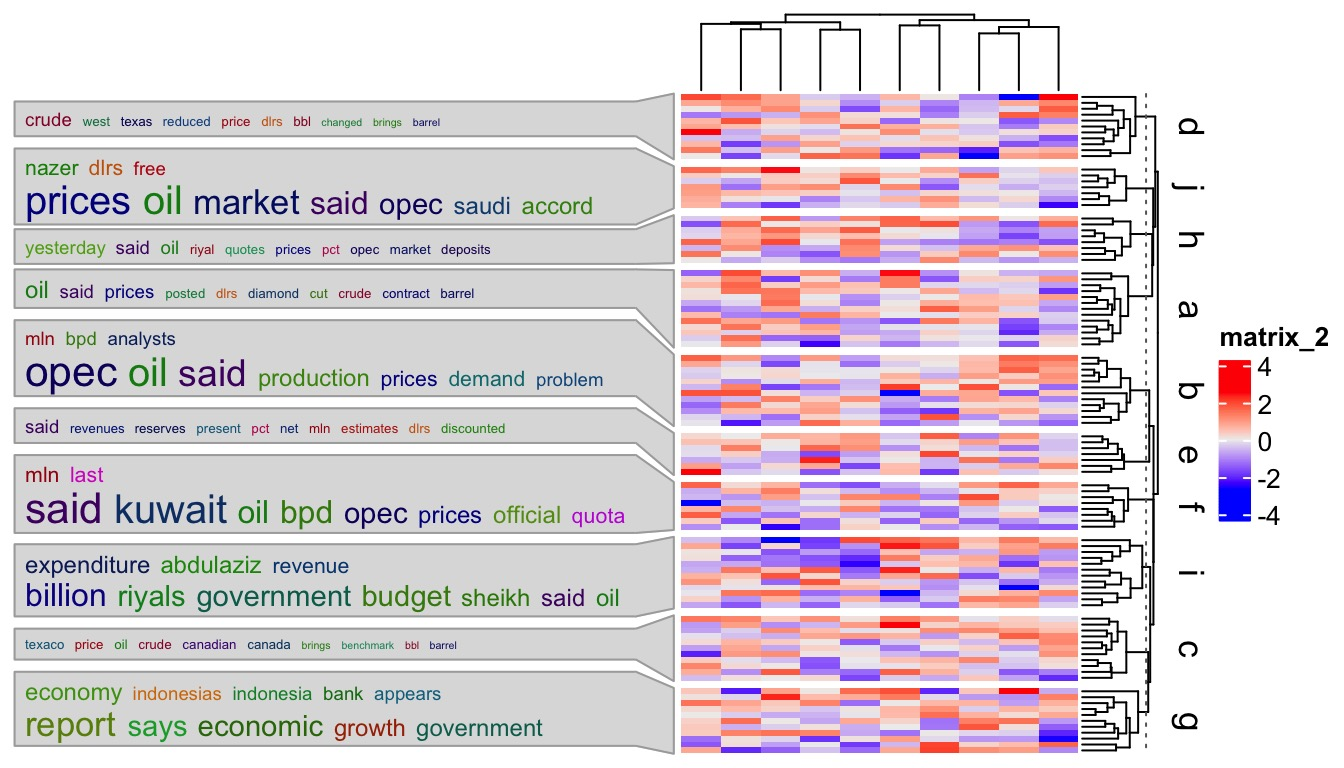
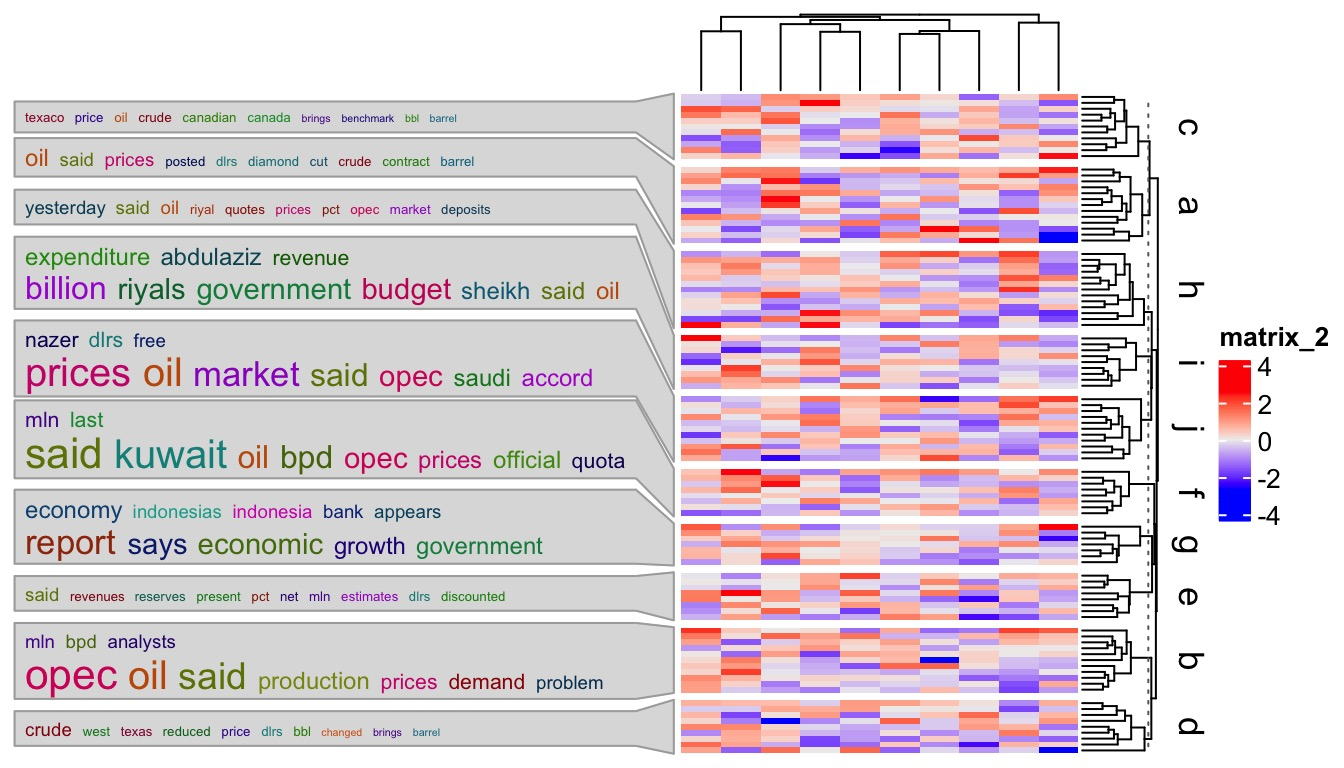
improve anno_word_cloud()

diff --git a/docs/articles/word_cloud_anno.html b/docs/articles/word_cloud_anno.html
@@ -88,7 +88,7 @@
       <h1 data-toc-skip>Word Cloud Annotation</h1>
                         <h4 class="author">Zuguang Gu (<a href="mailto:z.gu@dkfz.de" class="email">z.gu@dkfz.de</a>)</h4>
             
-            <h4 class="date">2021-11-22</h4>
+            <h4 class="date">2021-11-26</h4>
       
       <small class="dont-index">Source: <a href="https://github.com/jokergoo/simplifyEnrichment/blob/master/vignettes/word_cloud_anno.Rmd"><code>vignettes/word_cloud_anno.Rmd</code></a></small>
       <div class="hidden name"><code>word_cloud_anno.Rmd</code></div>
@@ -203,6 +203,30 @@
     row_split <span class="op">=</span> <span class="va">km</span><span class="op">)</span> <span class="op">+</span>
 <span class="fu"><a href="https://rdrr.io/pkg/ComplexHeatmap/man/rowAnnotation.html">rowAnnotation</a></span><span class="op">(</span>go <span class="op">=</span> <span class="fu"><a href="../reference/anno_word_cloud_from_GO.html">anno_word_cloud_from_GO</a></span><span class="op">(</span><span class="va">km</span>, <span class="va">go_list</span>, max_words <span class="op">=</span> <span class="fl">30</span>, stat <span class="op">=</span> <span class="st">"count"</span><span class="op">)</span><span class="op">)</span></code></pre></div>
 <p><img src="word_cloud_anno_files/figure-html/unnamed-chunk-9-1.png" width="672" style="display: block; margin: auto;"></p>
+<p>Now there might be users who want to say: I don’t actually need the word clouds, while I simply want to list key pathways in each cluster. This can be treated as a special case of word cloud where each word (or in general “a phrase as a word”) has value of 1 associated. Users need to specify several more arguments in <code><a href="../reference/anno_word_cloud.html">anno_word_cloud()</a></code>, as shown in the following example. Here <code>add_new_line</code> controls whether to list each sentence in separated lines. <code>value_range</code> and <code>fontsize_range</code> controls the size of the text. Note the defaults of these two arguments work well when font sizes are mapped to word frequencies or significance from keywords enrichment, but if the values are of other types, you might need to manually reset them.</p>
+<div class="sourceCode" id="cb14"><pre class="downlit sourceCode r">
+<code class="sourceCode R"><span class="va">mat</span> <span class="op">=</span> <span class="fu"><a href="https://rdrr.io/r/base/matrix.html">matrix</a></span><span class="op">(</span><span class="fu"><a href="https://rdrr.io/r/stats/Normal.html">rnorm</a></span><span class="op">(</span><span class="fl">100</span><span class="op">*</span><span class="fl">10</span><span class="op">)</span>, nrow <span class="op">=</span> <span class="fl">100</span><span class="op">)</span>
+<span class="va">split</span> <span class="op">=</span> <span class="fu"><a href="https://rdrr.io/r/base/sample.html">sample</a></span><span class="op">(</span><span class="va">letters</span><span class="op">[</span><span class="fl">1</span><span class="op">:</span><span class="fl">5</span><span class="op">]</span>, <span class="fl">100</span>, replace <span class="op">=</span> <span class="cn">TRUE</span><span class="op">)</span>
+<span class="va">term</span> <span class="op">=</span> <span class="fu"><a href="https://rdrr.io/r/base/lapply.html">lapply</a></span><span class="op">(</span><span class="va">letters</span><span class="op">[</span><span class="fl">1</span><span class="op">:</span><span class="fl">5</span><span class="op">]</span>, <span class="kw">function</span><span class="op">(</span><span class="va">x</span><span class="op">)</span> <span class="op">{</span>
+    <span class="fu"><a href="https://rdrr.io/r/base/data.frame.html">data.frame</a></span><span class="op">(</span><span class="fu"><a href="https://rdrr.io/r/base/c.html">c</a></span><span class="op">(</span><span class="st">"This is the first sentence."</span>, <span class="st">"This is the second sentence."</span><span class="op">)</span>, <span class="fu"><a href="https://rdrr.io/r/base/c.html">c</a></span><span class="op">(</span><span class="fl">1</span>, <span class="fl">1</span><span class="op">)</span><span class="op">)</span>
+<span class="op">}</span><span class="op">)</span>
+<span class="fu"><a href="https://rdrr.io/r/base/names.html">names</a></span><span class="op">(</span><span class="va">term</span><span class="op">)</span> <span class="op">=</span> <span class="va">letters</span><span class="op">[</span><span class="fl">1</span><span class="op">:</span><span class="fl">5</span><span class="op">]</span>
+<span class="fu"><a href="https://rdrr.io/pkg/ComplexHeatmap/man/Heatmap.html">Heatmap</a></span><span class="op">(</span><span class="va">mat</span>, row_split <span class="op">=</span> <span class="va">split</span>, 
+    right_annotation <span class="op">=</span> <span class="fu"><a href="https://rdrr.io/pkg/ComplexHeatmap/man/rowAnnotation.html">rowAnnotation</a></span><span class="op">(</span>wc <span class="op">=</span> <span class="fu"><a href="../reference/anno_word_cloud.html">anno_word_cloud</a></span><span class="op">(</span><span class="va">split</span>, <span class="va">term</span>,
+        add_new_line <span class="op">=</span> <span class="cn">TRUE</span>, value_range <span class="op">=</span> <span class="fu"><a href="https://rdrr.io/r/base/c.html">c</a></span><span class="op">(</span><span class="fl">1</span>, <span class="fl">1</span><span class="op">)</span>, fontsize_range <span class="op">=</span> <span class="fu"><a href="https://rdrr.io/r/base/c.html">c</a></span><span class="op">(</span><span class="fl">10</span>, <span class="fl">10</span><span class="op">)</span><span class="op">)</span><span class="op">)</span>
+<span class="op">)</span></code></pre></div>
+<p><img src="word_cloud_anno_files/figure-html/unnamed-chunk-10-1.png" width="672" style="display: block; margin: auto;"></p>
+<p>The sentences can also have different font size, just set values in the second column of the data frames in <code>term</code>:</p>
+<div class="sourceCode" id="cb15"><pre class="downlit sourceCode r">
+<code class="sourceCode R"><span class="va">term</span> <span class="op">=</span> <span class="fu"><a href="https://rdrr.io/r/base/lapply.html">lapply</a></span><span class="op">(</span><span class="va">letters</span><span class="op">[</span><span class="fl">1</span><span class="op">:</span><span class="fl">5</span><span class="op">]</span>, <span class="kw">function</span><span class="op">(</span><span class="va">x</span><span class="op">)</span> <span class="op">{</span>
+    <span class="fu"><a href="https://rdrr.io/r/base/data.frame.html">data.frame</a></span><span class="op">(</span><span class="fu"><a href="https://rdrr.io/r/base/c.html">c</a></span><span class="op">(</span><span class="st">"This is the first sentence."</span>, <span class="st">"This is the second sentence."</span><span class="op">)</span>, <span class="fu"><a href="https://rdrr.io/r/base/c.html">c</a></span><span class="op">(</span><span class="fl">1</span>, <span class="fl">2</span><span class="op">)</span><span class="op">)</span>
+<span class="op">}</span><span class="op">)</span>
+<span class="fu"><a href="https://rdrr.io/r/base/names.html">names</a></span><span class="op">(</span><span class="va">term</span><span class="op">)</span> <span class="op">=</span> <span class="va">letters</span><span class="op">[</span><span class="fl">1</span><span class="op">:</span><span class="fl">5</span><span class="op">]</span>
+<span class="fu"><a href="https://rdrr.io/pkg/ComplexHeatmap/man/Heatmap.html">Heatmap</a></span><span class="op">(</span><span class="va">mat</span>, row_split <span class="op">=</span> <span class="va">split</span>, 
+    right_annotation <span class="op">=</span> <span class="fu"><a href="https://rdrr.io/pkg/ComplexHeatmap/man/rowAnnotation.html">rowAnnotation</a></span><span class="op">(</span>wc <span class="op">=</span> <span class="fu"><a href="../reference/anno_word_cloud.html">anno_word_cloud</a></span><span class="op">(</span><span class="va">split</span>, <span class="va">term</span>,
+        add_new_line <span class="op">=</span> <span class="cn">TRUE</span>, value_range <span class="op">=</span> <span class="fu"><a href="https://rdrr.io/r/base/c.html">c</a></span><span class="op">(</span><span class="fl">1</span>, <span class="fl">2</span><span class="op">)</span>, fontsize_range <span class="op">=</span> <span class="fu"><a href="https://rdrr.io/r/base/c.html">c</a></span><span class="op">(</span><span class="fl">8</span>, <span class="fl">12</span><span class="op">)</span><span class="op">)</span><span class="op">)</span>
+<span class="op">)</span></code></pre></div>
+<p><img src="word_cloud_anno_files/figure-html/unnamed-chunk-11-1.png" width="672" style="display: block; margin: auto;"></p>
   </div>
 
   <div class="col-md-3 hidden-xs hidden-sm" id="pkgdown-sidebar">

diff --git a/docs/articles/simplifyEnrichment.html b/docs/articles/simplifyEnrichment.html
@@ -88,7 +88,7 @@
       <h1 data-toc-skip>Simplify Functional Enrichment Results</h1>
                         <h4 class="author">Zuguang Gu (<a href="mailto:z.gu@dkfz.de" class="email">z.gu@dkfz.de</a>)</h4>
             
-            <h4 class="date">2021-11-22</h4>
+            <h4 class="date">2021-11-26</h4>
       
       <small class="dont-index">Source: <a href="https://github.com/jokergoo/simplifyEnrichment/blob/master/vignettes/simplifyEnrichment.Rmd"><code>vignettes/simplifyEnrichment.Rmd</code></a></small>
       <div class="hidden name"><code>simplifyEnrichment.Rmd</code></div>
@@ -115,7 +115,7 @@
 <p>With the similarity matrix <code>mat</code>, users can directly apply <code><a href="../reference/simplifyGO.html">simplifyGO()</a></code> function to perform the clustering as well as visualizing the results.</p>
 <div class="sourceCode" id="cb4"><pre class="downlit sourceCode r">
 <code class="sourceCode R"><span class="va">df</span> <span class="op">=</span> <span class="fu"><a href="../reference/simplifyGO.html">simplifyGO</a></span><span class="op">(</span><span class="va">mat</span><span class="op">)</span></code></pre></div>
-<pre><code>## Cluster 500 terms by 'binary_cut'... 19 clusters, used 1.395753 secs.
+<pre><code>## Cluster 500 terms by 'binary_cut'... 19 clusters, used 1.366146 secs.
 ## Perform keywords enrichment for 11 GO lists...</code></pre>
 <p><img src="simplifyEnrichment_files/figure-html/unnamed-chunk-6-1.png" width="806.4" style="display: block; margin: auto;"></p>
 <p>On the right side of the heatmap there are the word cloud annotations which summarize the functions with keywords in every GO cluster. Additionally, enrichment is done on keywords compared to GO background vocabulary and the significance corresponds to the font size of the keywords.</p>
@@ -201,30 +201,30 @@
 </ol>
 <div class="sourceCode" id="cb14"><pre class="downlit sourceCode r">
 <code class="sourceCode R"><span class="fu"><a href="../reference/compare_clustering_methods.html">compare_clustering_methods</a></span><span class="op">(</span><span class="va">mat</span><span class="op">)</span></code></pre></div>
-<pre><code>## Cluster 500 terms by 'binary_cut'... 19 clusters, used 1.135666 secs.
-## Cluster 500 terms by 'kmeans'... 19 clusters, used 3.667366 secs.
-## Cluster 500 terms by 'pam'... 5 clusters, used 22.60092 secs.
-## Cluster 500 terms by 'dynamicTreeCut'... 60 clusters, used 0.1633129 secs.
-## Cluster 500 terms by 'apcluster'... 41 clusters, used 1.21889 secs.
-## Cluster 500 terms by 'hdbscan'... 14 clusters, used 0.200191 secs.
-## Cluster 500 terms by 'fast_greedy'... 6 clusters, used 0.1410952 secs.
-## Cluster 500 terms by 'louvain'... 6 clusters, used 0.08234787 secs.
-## Cluster 500 terms by 'walktrap'... 6 clusters, used 0.3581161 secs.
-## Cluster 500 terms by 'MCL'... 6 clusters, used 2.438552 secs.</code></pre>
+<pre><code>## Cluster 500 terms by 'binary_cut'... 19 clusters, used 1.00777 secs.
+## Cluster 500 terms by 'kmeans'... 15 clusters, used 3.533886 secs.
+## Cluster 500 terms by 'pam'... 5 clusters, used 22.21925 secs.
+## Cluster 500 terms by 'dynamicTreeCut'... 60 clusters, used 0.158437 secs.
+## Cluster 500 terms by 'apcluster'... 41 clusters, used 1.123825 secs.
+## Cluster 500 terms by 'hdbscan'... 14 clusters, used 0.1832268 secs.
+## Cluster 500 terms by 'fast_greedy'... 6 clusters, used 0.1389499 secs.
+## Cluster 500 terms by 'louvain'... 6 clusters, used 0.08425498 secs.
+## Cluster 500 terms by 'walktrap'... 6 clusters, used 0.2730038 secs.
+## Cluster 500 terms by 'MCL'... 6 clusters, used 1.850191 secs.</code></pre>
 <p><img src="simplifyEnrichment_files/figure-html/unnamed-chunk-12-1.png" width="960" style="display: block; margin: auto;"></p>
 <p>If <code>plot_type</code> argument is set to <code>heatmap</code>. There are heatmaps for the similarity matrix under different clusterings methods. The last panel is a table with the number of clusters.</p>
 <div class="sourceCode" id="cb16"><pre class="downlit sourceCode r">
 <code class="sourceCode R"><span class="fu"><a href="../reference/compare_clustering_methods.html">compare_clustering_methods</a></span><span class="op">(</span><span class="va">mat</span>, plot_type <span class="op">=</span> <span class="st">"heatmap"</span><span class="op">)</span></code></pre></div>
-<pre><code>## Cluster 500 terms by 'binary_cut'... 19 clusters, used 1.109561 secs.
-## Cluster 500 terms by 'kmeans'... 20 clusters, used 3.620433 secs.
-## Cluster 500 terms by 'pam'... 5 clusters, used 21.74007 secs.
-## Cluster 500 terms by 'dynamicTreeCut'... 60 clusters, used 0.1487749 secs.
-## Cluster 500 terms by 'apcluster'... 41 clusters, used 1.164628 secs.
-## Cluster 500 terms by 'hdbscan'... 14 clusters, used 0.170625 secs.
-## Cluster 500 terms by 'fast_greedy'... 6 clusters, used 0.07764316 secs.
-## Cluster 500 terms by 'louvain'... 6 clusters, used 0.08236694 secs.
-## Cluster 500 terms by 'walktrap'... 6 clusters, used 0.2756431 secs.
-## Cluster 500 terms by 'MCL'... 6 clusters, used 1.967357 secs.</code></pre>
+<pre><code>## Cluster 500 terms by 'binary_cut'... 19 clusters, used 1.164889 secs.
+## Cluster 500 terms by 'kmeans'... 17 clusters, used 3.565179 secs.
+## Cluster 500 terms by 'pam'... 5 clusters, used 21.71243 secs.
+## Cluster 500 terms by 'dynamicTreeCut'... 60 clusters, used 0.144032 secs.
+## Cluster 500 terms by 'apcluster'... 41 clusters, used 0.8258629 secs.
+## Cluster 500 terms by 'hdbscan'... 14 clusters, used 0.180125 secs.
+## Cluster 500 terms by 'fast_greedy'... 6 clusters, used 0.07359314 secs.
+## Cluster 500 terms by 'louvain'... 6 clusters, used 0.101949 secs.
+## Cluster 500 terms by 'walktrap'... 6 clusters, used 0.369005 secs.
+## Cluster 500 terms by 'MCL'... 6 clusters, used 2.051593 secs.</code></pre>
 <p><img src="simplifyEnrichment_files/figure-html/unnamed-chunk-13-1.png" width="1728" style="display: block; margin: auto;"></p>
 <p>Please note, the clustering methods might have randomness, which means, different runs of <code><a href="../reference/compare_clustering_methods.html">compare_clustering_methods()</a></code> may generate different clusterings (slightly different). Thus, if users want to compare the plots between <code><a href="../reference/compare_clustering_methods.html">compare_clustering_methods(mat)</a></code> and <code><a href="../reference/compare_clustering_methods.html">compare_clustering_methods(mat, plot_type = "heatmap")</a></code>, they should set the same random seed before executing the function.</p>
 <div class="sourceCode" id="cb18"><pre class="downlit sourceCode r">
@@ -324,7 +324,7 @@
 <pre><code>## Use column 'ID' as `go_id_column`.
 ## Use column 'p.adjust' as `padj_column`.
 ## 927/6316 GO IDs left for clustering.
-## Cluster 927 terms by 'binary_cut'... 29 clusters, used 2.174088 secs.
+## Cluster 927 terms by 'binary_cut'... 29 clusters, used 1.811993 secs.
 ## Perform keywords enrichment for 8 GO lists...</code></pre>
 <p><img src="simplifyEnrichment_files/figure-html/unnamed-chunk-18-1.png" width="100%" style="display: block; margin: auto;"></p>
 <p>Next we demonstrate two other data types for <code><a href="../reference/simplifyGOFromMultipleLists.html">simplifyGOFromMultipleLists()</a></code>. Both usages are straightforward. The first is a list of numeric vectors:</p>

diff --git a/docs/reference/compare_clustering_methods.html b/docs/reference/compare_clustering_methods.html
@@ -196,26 +196,26 @@
 <span class='va'>mat</span> <span class='op'>=</span> <span class='fu'><a href='https://rdrr.io/r/base/readRDS.html'>readRDS</a></span><span class='op'>(</span><span class='fu'><a href='https://rdrr.io/r/base/system.file.html'>system.file</a></span><span class='op'>(</span><span class='st'>"extdata"</span>, <span class='st'>"random_GO_BP_sim_mat.rds"</span>,
     package <span class='op'>=</span> <span class='st'>"simplifyEnrichment"</span><span class='op'>)</span><span class='op'>)</span>
 <span class='fu'>compare_clustering_methods</span><span class='op'>(</span><span class='va'>mat</span><span class='op'>)</span>
-</div><div class='output co'>#&gt; Cluster 500 terms by 'binary_cut'... 19 clusters, used 1.16726 secs.
-#&gt; Cluster 500 terms by 'kmeans'... 16 clusters, used 3.235914 secs.
-#&gt; Cluster 500 terms by 'pam'... 5 clusters, used 20.71368 secs.
-#&gt; Cluster 500 terms by 'dynamicTreeCut'... 60 clusters, used 0.1596529 secs.
-#&gt; Cluster 500 terms by 'apcluster'... 41 clusters, used 0.8454869 secs.
-#&gt; Cluster 500 terms by 'hdbscan'... 14 clusters, used 0.179153 secs.
-#&gt; Cluster 500 terms by 'fast_greedy'... 6 clusters, used 0.07034421 secs.
-#&gt; Cluster 500 terms by 'louvain'... 6 clusters, used 0.07762599 secs.
-#&gt; Cluster 500 terms by 'walktrap'... 6 clusters, used 0.327028 secs.
-#&gt; Cluster 500 terms by 'MCL'... 6 clusters, used 2.165635 secs.</div><div class='img'><img src='compare_clustering_methods-1.png' alt='' width='700' height='433' /></div><div class='input'><span class='fu'>compare_clustering_methods</span><span class='op'>(</span><span class='va'>mat</span>, plot_type <span class='op'>=</span> <span class='st'>"heatmap"</span><span class='op'>)</span>
-</div><div class='output co'>#&gt; Cluster 500 terms by 'binary_cut'... 19 clusters, used 1.107425 secs.
-#&gt; Cluster 500 terms by 'kmeans'... 18 clusters, used 3.955954 secs.
-#&gt; Cluster 500 terms by 'pam'... 5 clusters, used 21.46512 secs.
-#&gt; Cluster 500 terms by 'dynamicTreeCut'... 60 clusters, used 0.1406281 secs.
-#&gt; Cluster 500 terms by 'apcluster'... 41 clusters, used 0.7406361 secs.
-#&gt; Cluster 500 terms by 'hdbscan'... 14 clusters, used 0.1734121 secs.
-#&gt; Cluster 500 terms by 'fast_greedy'... 6 clusters, used 0.06746602 secs.
-#&gt; Cluster 500 terms by 'louvain'... 6 clusters, used 0.096174 secs.
-#&gt; Cluster 500 terms by 'walktrap'... 6 clusters, used 0.25526 secs.
-#&gt; Cluster 500 terms by 'MCL'... 6 clusters, used 1.787468 secs.</div><div class='img'><img src='compare_clustering_methods-2.png' alt='' width='700' height='433' /></div><div class='input'><span class='co'># }</span>
+</div><div class='output co'>#&gt; Cluster 500 terms by 'binary_cut'... 19 clusters, used 1.247852 secs.
+#&gt; Cluster 500 terms by 'kmeans'... 16 clusters, used 3.522572 secs.
+#&gt; Cluster 500 terms by 'pam'... 5 clusters, used 21.67631 secs.
+#&gt; Cluster 500 terms by 'dynamicTreeCut'... 60 clusters, used 0.143013 secs.
+#&gt; Cluster 500 terms by 'apcluster'... 41 clusters, used 0.8885372 secs.
+#&gt; Cluster 500 terms by 'hdbscan'... 14 clusters, used 0.178124 secs.
+#&gt; Cluster 500 terms by 'fast_greedy'... 6 clusters, used 0.07704997 secs.
+#&gt; Cluster 500 terms by 'louvain'... 6 clusters, used 0.07361603 secs.
+#&gt; Cluster 500 terms by 'walktrap'... 6 clusters, used 0.318918 secs.
+#&gt; Cluster 500 terms by 'MCL'... 6 clusters, used 1.897341 secs.</div><div class='img'><img src='compare_clustering_methods-1.png' alt='' width='700' height='433' /></div><div class='input'><span class='fu'>compare_clustering_methods</span><span class='op'>(</span><span class='va'>mat</span>, plot_type <span class='op'>=</span> <span class='st'>"heatmap"</span><span class='op'>)</span>
+</div><div class='output co'>#&gt; Cluster 500 terms by 'binary_cut'... 19 clusters, used 1.129466 secs.
+#&gt; Cluster 500 terms by 'kmeans'... 18 clusters, used 3.394043 secs.
+#&gt; Cluster 500 terms by 'pam'... 5 clusters, used 21.14449 secs.
+#&gt; Cluster 500 terms by 'dynamicTreeCut'... 60 clusters, used 0.1492419 secs.
+#&gt; Cluster 500 terms by 'apcluster'... 41 clusters, used 0.7488801 secs.
+#&gt; Cluster 500 terms by 'hdbscan'... 14 clusters, used 0.1780221 secs.
+#&gt; Cluster 500 terms by 'fast_greedy'... 6 clusters, used 0.07098293 secs.
+#&gt; Cluster 500 terms by 'louvain'... 6 clusters, used 0.0672152 secs.
+#&gt; Cluster 500 terms by 'walktrap'... 6 clusters, used 0.2688231 secs.
+#&gt; Cluster 500 terms by 'MCL'... 6 clusters, used 1.82666 secs.</div><div class='img'><img src='compare_clustering_methods-2.png' alt='' width='700' height='433' /></div><div class='input'><span class='co'># }</span>
 </div></pre>
   </div>
   <div class="col-md-3 hidden-xs hidden-sm" id="pkgdown-sidebar">

diff --git a/docs/reference/simplifyGOFromMultipleLists.html b/docs/reference/simplifyGOFromMultipleLists.html
@@ -278,17 +278,17 @@ the group-specific (or list-specific) patterns can be easily observed and to cor
 <span class='co'># a list of data frames</span>
 <span class='fu'>simplifyGOFromMultipleLists</span><span class='op'>(</span><span class='va'>lt</span>, padj_cutoff <span class='op'>=</span> <span class='fl'>0.001</span><span class='op'>)</span>
 </div><div class='output co'>#&gt; Use column 'ID' as `go_id_column`.
-#&gt; Use column 'p.adjust' as `padj_column`.</div><div class='output co'>#&gt; <span class='message'>Loading required namespace: gridtext</span></div><div class='output co'>#&gt; 927/6316 GO IDs left for clustering.</div><div class='output co'>#&gt; <span class='message'>You haven't provided value for `ont`, guess it as `BP`.</span></div><div class='output co'>#&gt; Cluster 927 terms by 'binary_cut'... 29 clusters, used 1.871094 secs.
+#&gt; Use column 'p.adjust' as `padj_column`.</div><div class='output co'>#&gt; <span class='message'>Loading required namespace: gridtext</span></div><div class='output co'>#&gt; 927/6316 GO IDs left for clustering.</div><div class='output co'>#&gt; <span class='message'>You haven't provided value for `ont`, guess it as `BP`.</span></div><div class='output co'>#&gt; Cluster 927 terms by 'binary_cut'... 29 clusters, used 1.87384 secs.
 #&gt; Perform keywords enrichment for 8 GO lists...</div><div class='img'><img src='simplifyGOFromMultipleLists-1.png' alt='' width='700' height='433' /></div><div class='input'>
 <span class='co'># a list of numeric values</span>
 <span class='va'>lt2</span> <span class='op'>=</span> <span class='fu'><a href='https://rdrr.io/r/base/lapply.html'>lapply</a></span><span class='op'>(</span><span class='va'>lt</span>, <span class='kw'>function</span><span class='op'>(</span><span class='va'>x</span><span class='op'>)</span> <span class='fu'><a href='https://rdrr.io/r/base/structure.html'>structure</a></span><span class='op'>(</span><span class='va'>x</span><span class='op'>$</span><span class='va'>p.adjust</span>, names <span class='op'>=</span> <span class='va'>x</span><span class='op'>$</span><span class='va'>ID</span><span class='op'>)</span><span class='op'>)</span>
 <span class='fu'>simplifyGOFromMultipleLists</span><span class='op'>(</span><span class='va'>lt2</span>, padj_cutoff <span class='op'>=</span> <span class='fl'>0.001</span><span class='op'>)</span>
-</div><div class='output co'>#&gt; 927/6316 GO IDs left for clustering.</div><div class='output co'>#&gt; <span class='message'>You haven't provided value for `ont`, guess it as `BP`.</span></div><div class='output co'>#&gt; Cluster 927 terms by 'binary_cut'... 29 clusters, used 2.616816 secs.
+</div><div class='output co'>#&gt; 927/6316 GO IDs left for clustering.</div><div class='output co'>#&gt; <span class='message'>You haven't provided value for `ont`, guess it as `BP`.</span></div><div class='output co'>#&gt; Cluster 927 terms by 'binary_cut'... 29 clusters, used 1.882167 secs.
 #&gt; Perform keywords enrichment for 8 GO lists...</div><div class='img'><img src='simplifyGOFromMultipleLists-2.png' alt='' width='700' height='433' /></div><div class='input'>
 <span class='co'># a list of GO IDS</span>
 <span class='va'>lt3</span> <span class='op'>=</span> <span class='fu'><a href='https://rdrr.io/r/base/lapply.html'>lapply</a></span><span class='op'>(</span><span class='va'>lt</span>, <span class='kw'>function</span><span class='op'>(</span><span class='va'>x</span><span class='op'>)</span> <span class='va'>x</span><span class='op'>$</span><span class='va'>ID</span><span class='op'>[</span><span class='va'>x</span><span class='op'>$</span><span class='va'>p.adjust</span> <span class='op'>&lt;</span> <span class='fl'>0.001</span><span class='op'>]</span><span class='op'>)</span>
 <span class='fu'>simplifyGOFromMultipleLists</span><span class='op'>(</span><span class='va'>lt3</span><span class='op'>)</span>
-</div><div class='output co'>#&gt; 927/927 GO IDs left for clustering.</div><div class='output co'>#&gt; <span class='message'>You haven't provided value for `ont`, guess it as `BP`.</span></div><div class='output co'>#&gt; Cluster 927 terms by 'binary_cut'... 29 clusters, used 1.87644 secs.
+</div><div class='output co'>#&gt; 927/927 GO IDs left for clustering.</div><div class='output co'>#&gt; <span class='message'>You haven't provided value for `ont`, guess it as `BP`.</span></div><div class='output co'>#&gt; Cluster 927 terms by 'binary_cut'... 29 clusters, used 1.730309 secs.
 #&gt; Perform keywords enrichment for 8 GO lists...</div><div class='img'><img src='simplifyGOFromMultipleLists-3.png' alt='' width='700' height='433' /></div><div class='input'><span class='co'># }</span>
 </div></pre>
   </div>

diff --git a/docs/reference/cmp_make_plot.html b/docs/reference/cmp_make_plot.html
@@ -179,16 +179,16 @@ clusterings.</p>
 <span class='va'>mat</span> <span class='op'>=</span> <span class='fu'><a href='https://rdrr.io/r/base/readRDS.html'>readRDS</a></span><span class='op'>(</span><span class='fu'><a href='https://rdrr.io/r/base/system.file.html'>system.file</a></span><span class='op'>(</span><span class='st'>"extdata"</span>, <span class='st'>"random_GO_BP_sim_mat.rds"</span>,
     package <span class='op'>=</span> <span class='st'>"simplifyEnrichment"</span><span class='op'>)</span><span class='op'>)</span>
 <span class='va'>clt</span> <span class='op'>=</span> <span class='fu'><a href='cmp_make_clusters.html'>cmp_make_clusters</a></span><span class='op'>(</span><span class='va'>mat</span><span class='op'>)</span>
-</div><div class='output co'>#&gt; Cluster 500 terms by 'binary_cut'... 19 clusters, used 1.082154 secs.
-#&gt; Cluster 500 terms by 'kmeans'... 21 clusters, used 3.9441 secs.
-#&gt; Cluster 500 terms by 'pam'... 5 clusters, used 23.38556 secs.
-#&gt; Cluster 500 terms by 'dynamicTreeCut'... 60 clusters, used 0.2007799 secs.
-#&gt; Cluster 500 terms by 'apcluster'... 41 clusters, used 1.306292 secs.
-#&gt; Cluster 500 terms by 'hdbscan'... 14 clusters, used 0.187027 secs.
-#&gt; Cluster 500 terms by 'fast_greedy'... 6 clusters, used 0.08143902 secs.
-#&gt; Cluster 500 terms by 'louvain'... 6 clusters, used 0.07868004 secs.
-#&gt; Cluster 500 terms by 'walktrap'... 6 clusters, used 0.6957641 secs.
-#&gt; Cluster 500 terms by 'MCL'... 6 clusters, used 1.802144 secs.</div><div class='input'><span class='fu'>cmp_make_plot</span><span class='op'>(</span><span class='va'>mat</span>, <span class='va'>clt</span><span class='op'>)</span>
+</div><div class='output co'>#&gt; Cluster 500 terms by 'binary_cut'... 19 clusters, used 1.49998 secs.
+#&gt; Cluster 500 terms by 'kmeans'... 21 clusters, used 3.501265 secs.
+#&gt; Cluster 500 terms by 'pam'... 5 clusters, used 21.51469 secs.
+#&gt; Cluster 500 terms by 'dynamicTreeCut'... 60 clusters, used 0.163491 secs.
+#&gt; Cluster 500 terms by 'apcluster'... 41 clusters, used 1.1725 secs.
+#&gt; Cluster 500 terms by 'hdbscan'... 14 clusters, used 0.1876349 secs.
+#&gt; Cluster 500 terms by 'fast_greedy'... 6 clusters, used 0.08288908 secs.
+#&gt; Cluster 500 terms by 'louvain'... 6 clusters, used 0.07305598 secs.
+#&gt; Cluster 500 terms by 'walktrap'... 6 clusters, used 0.678436 secs.
+#&gt; Cluster 500 terms by 'MCL'... 6 clusters, used 1.839584 secs.</div><div class='input'><span class='fu'>cmp_make_plot</span><span class='op'>(</span><span class='va'>mat</span>, <span class='va'>clt</span><span class='op'>)</span>
 </div><div class='img'><img src='cmp_make_plot-1.png' alt='' width='700' height='433' /></div><div class='input'><span class='fu'>cmp_make_plot</span><span class='op'>(</span><span class='va'>mat</span>, <span class='va'>clt</span>, plot_type <span class='op'>=</span> <span class='st'>"heatmap"</span><span class='op'>)</span>
 </div><div class='img'><img src='cmp_make_plot-2.png' alt='' width='700' height='433' /></div><div class='input'><span class='co'># }</span>
 </div></pre>

diff --git a/docs/reference/anno_word_cloud.html b/docs/reference/anno_word_cloud.html
@@ -136,9 +136,9 @@
     </div>
 
     <pre class="usage"><span class='fu'>anno_word_cloud</span><span class='op'>(</span><span class='va'>align_to</span>, <span class='va'>term</span>, exclude_words <span class='op'>=</span> <span class='cn'>NULL</span>, max_words <span class='op'>=</span> <span class='fl'>10</span>,
-    word_cloud_grob_param <span class='op'>=</span> <span class='fu'><a href='https://rdrr.io/r/base/list.html'>list</a></span><span class='op'>(</span><span class='op'>)</span>, fontsize_range <span class='op'>=</span> <span class='fu'><a href='https://rdrr.io/r/base/c.html'>c</a></span><span class='op'>(</span><span class='fl'>4</span>, <span class='fl'>16</span><span class='op'>)</span>,
+    word_cloud_grob_param <span class='op'>=</span> <span class='fu'><a href='https://rdrr.io/r/base/list.html'>list</a></span><span class='op'>(</span><span class='op'>)</span>, fontsize_range <span class='op'>=</span> <span class='fu'><a href='https://rdrr.io/r/base/c.html'>c</a></span><span class='op'>(</span><span class='fl'>4</span>, <span class='fl'>16</span><span class='op'>)</span>, value_range <span class='op'>=</span> <span class='cn'>NULL</span>,
     bg_gp <span class='op'>=</span> <span class='fu'>gpar</span><span class='op'>(</span>fill <span class='op'>=</span> <span class='st'>"#DDDDDD"</span>, col <span class='op'>=</span> <span class='st'>"#AAAAAA"</span><span class='op'>)</span>, side <span class='op'>=</span> <span class='fu'><a href='https://rdrr.io/r/base/c.html'>c</a></span><span class='op'>(</span><span class='st'>"right"</span>, <span class='st'>"left"</span><span class='op'>)</span>,
-    count_words_param <span class='op'>=</span> <span class='fu'><a href='https://rdrr.io/r/base/list.html'>list</a></span><span class='op'>(</span><span class='op'>)</span>, <span class='va'>...</span><span class='op'>)</span></pre>
+    add_new_line <span class='op'>=</span> <span class='cn'>FALSE</span>, count_words_param <span class='op'>=</span> <span class='fu'><a href='https://rdrr.io/r/base/list.html'>list</a></span><span class='op'>(</span><span class='op'>)</span>, <span class='va'>...</span><span class='op'>)</span></pre>
 
     <h2 class="hasAnchor" id="arguments"><a class="anchor" href="#arguments"></a>Arguments</h2>
     <table class="ref-arguments">
@@ -168,12 +168,20 @@
       <td><p>The range of the font size. The value should be a numeric vector with length two. The font size interpolation is linear.</p></td>
     </tr>
     <tr>
+      <th>value_range</th>
+      <td><p>The range of values to map to font sizes.</p></td>
+    </tr>
+    <tr>
       <th>bg_gp</th>
       <td><p>Graphics parameters for controlling the background.</p></td>
     </tr>
     <tr>
       <th>side</th>
       <td><p>Side of the annotation relative to the heatmap.</p></td>
+    </tr>
+    <tr>
+      <th>add_new_line</th>
+      <td><p>Whether to add new line after every word? If <code>TRUE</code>, each word will be in a separated line.</p></td>
     </tr>
     <tr>
       <th>count_words_param</th>

diff --git a/docs/reference/cmp_make_clusters.html b/docs/reference/cmp_make_clusters.html
@@ -183,16 +183,16 @@
 <span class='va'>mat</span> <span class='op'>=</span> <span class='fu'><a href='https://rdrr.io/r/base/readRDS.html'>readRDS</a></span><span class='op'>(</span><span class='fu'><a href='https://rdrr.io/r/base/system.file.html'>system.file</a></span><span class='op'>(</span><span class='st'>"extdata"</span>, <span class='st'>"random_GO_BP_sim_mat.rds"</span>,
     package <span class='op'>=</span> <span class='st'>"simplifyEnrichment"</span><span class='op'>)</span><span class='op'>)</span>
 <span class='va'>clt</span> <span class='op'>=</span> <span class='fu'>cmp_make_clusters</span><span class='op'>(</span><span class='va'>mat</span><span class='op'>)</span>
-</div><div class='output co'>#&gt; Cluster 500 terms by 'binary_cut'... 19 clusters, used 1.385689 secs.
-#&gt; Cluster 500 terms by 'kmeans'... 21 clusters, used 3.715417 secs.
-#&gt; Cluster 500 terms by 'pam'... 5 clusters, used 23.1445 secs.
-#&gt; Cluster 500 terms by 'dynamicTreeCut'... 60 clusters, used 0.1758401 secs.
-#&gt; Cluster 500 terms by 'apcluster'... 41 clusters, used 1.104643 secs.
-#&gt; Cluster 500 terms by 'hdbscan'... 14 clusters, used 0.247236 secs.
-#&gt; Cluster 500 terms by 'fast_greedy'... 6 clusters, used 0.178056 secs.
-#&gt; Cluster 500 terms by 'louvain'... 6 clusters, used 0.09004092 secs.
-#&gt; Cluster 500 terms by 'walktrap'... 6 clusters, used 0.3517952 secs.
-#&gt; Cluster 500 terms by 'MCL'... 6 clusters, used 2.161975 secs.</div><div class='input'><span class='co'># }</span>
+</div><div class='output co'>#&gt; Cluster 500 terms by 'binary_cut'... 19 clusters, used 1.17406 secs.
+#&gt; Cluster 500 terms by 'kmeans'... 21 clusters, used 3.738725 secs.
+#&gt; Cluster 500 terms by 'pam'... 5 clusters, used 22.23325 secs.
+#&gt; Cluster 500 terms by 'dynamicTreeCut'... 60 clusters, used 0.172605 secs.
+#&gt; Cluster 500 terms by 'apcluster'... 41 clusters, used 0.8823769 secs.
+#&gt; Cluster 500 terms by 'hdbscan'... 14 clusters, used 0.196279 secs.
+#&gt; Cluster 500 terms by 'fast_greedy'... 6 clusters, used 0.120728 secs.
+#&gt; Cluster 500 terms by 'louvain'... 6 clusters, used 0.1220851 secs.
+#&gt; Cluster 500 terms by 'walktrap'... 6 clusters, used 0.2903509 secs.
+#&gt; Cluster 500 terms by 'MCL'... 6 clusters, used 2.193375 secs.</div><div class='input'><span class='co'># }</span>
 </div></pre>
   </div>
   <div class="col-md-3 hidden-xs hidden-sm" id="pkgdown-sidebar">

diff --git a/docs/reference/word_cloud_grob.html b/docs/reference/word_cloud_grob.html
@@ -138,7 +138,7 @@
     <pre class="usage"><span class='fu'>word_cloud_grob</span><span class='op'>(</span><span class='va'>text</span>, <span class='va'>fontsize</span>,
     line_space <span class='op'>=</span> <span class='fu'>unit</span><span class='op'>(</span><span class='fl'>4</span>, <span class='st'>"pt"</span><span class='op'>)</span>, word_space <span class='op'>=</span> <span class='fu'>unit</span><span class='op'>(</span><span class='fl'>4</span>, <span class='st'>"pt"</span><span class='op'>)</span>, max_width <span class='op'>=</span> <span class='fu'>unit</span><span class='op'>(</span><span class='fl'>80</span>, <span class='st'>"mm"</span><span class='op'>)</span>,
     col <span class='op'>=</span> <span class='kw'>function</span><span class='op'>(</span><span class='va'>fs</span><span class='op'>)</span> <span class='fu'>circlize</span><span class='fu'>::</span><span class='fu'><a href='https://rdrr.io/pkg/circlize/man/rand_color.html'>rand_color</a></span><span class='op'>(</span><span class='fu'><a href='https://rdrr.io/r/base/length.html'>length</a></span><span class='op'>(</span><span class='va'>fs</span><span class='op'>)</span>, luminosity <span class='op'>=</span> <span class='st'>"dark"</span><span class='op'>)</span>,
-    test <span class='op'>=</span> <span class='cn'>FALSE</span><span class='op'>)</span></pre>
+    add_new_line <span class='op'>=</span> <span class='cn'>FALSE</span>, test <span class='op'>=</span> <span class='cn'>FALSE</span><span class='op'>)</span></pre>
 
     <h2 class="hasAnchor" id="arguments"><a class="anchor" href="#arguments"></a>Arguments</h2>
     <table class="ref-arguments">
@@ -166,6 +166,10 @@
     <tr>
       <th>col</th>
       <td><p>Colors for the words. The value can be a vector, in numeric or character, which should have the same length as <code>text</code>. Or it is a self-defined function that takes the font size vector as  the only argument. The function should return a color vector. See Examples.</p></td>
+    </tr>
+    <tr>
+      <th>add_new_line</th>
+      <td><p>Whether to add new line after every word? If <code>TRUE</code>, each word will be in a separated line.</p></td>
     </tr>
     <tr>
       <th>test</th>

diff --git a/docs/reference/simplifyGO.html b/docs/reference/simplifyGO.html
@@ -207,7 +207,7 @@ GO terms and then runs <code><a href='ht_clusters.html'>ht_clusters</a></code> t
 <span class='va'>go_id</span> <span class='op'>=</span> <span class='fu'><a href='random_GO.html'>random_GO</a></span><span class='op'>(</span><span class='fl'>500</span><span class='op'>)</span>
 <span class='va'>mat</span> <span class='op'>=</span> <span class='fu'><a href='GO_similarity.html'>GO_similarity</a></span><span class='op'>(</span><span class='va'>go_id</span><span class='op'>)</span>
 </div><div class='output co'>#&gt; <span class='message'>You haven't provided value for `ont`, guess it as `BP`.</span></div><div class='input'><span class='va'>df</span> <span class='op'>=</span> <span class='fu'>simplifyGO</span><span class='op'>(</span><span class='va'>mat</span>, word_cloud_grob_param <span class='op'>=</span> <span class='fu'><a href='https://rdrr.io/r/base/list.html'>list</a></span><span class='op'>(</span>max_width <span class='op'>=</span> <span class='fl'>80</span><span class='op'>)</span><span class='op'>)</span>
-</div><div class='output co'>#&gt; Cluster 500 terms by 'binary_cut'... 20 clusters, used 0.9653449 secs.
+</div><div class='output co'>#&gt; Cluster 500 terms by 'binary_cut'... 20 clusters, used 1.104134 secs.
 #&gt; Perform keywords enrichment for 9 GO lists...</div><div class='img'><img src='simplifyGO-1.png' alt='' width='700' height='433' /></div><div class='input'><span class='fu'><a href='https://rdrr.io/r/utils/head.html'>head</a></span><span class='op'>(</span><span class='va'>df</span><span class='op'>)</span>
 </div><div class='output co'>#&gt;           id cluster
 #&gt; 1 GO:0045823       1

diff --git a/docs/articles/interactive.html b/docs/articles/interactive.html
@@ -88,7 +88,7 @@
       <h1 data-toc-skip>A Shiny app to interactively visualize clustering results</h1>
                         <h4 class="author">Zuguang Gu (<a href="mailto:z.gu@dkfz.de" class="email">z.gu@dkfz.de</a>)</h4>
             
-            <h4 class="date">2021-11-22</h4>
+            <h4 class="date">2021-11-26</h4>
       
       <small class="dont-index">Source: <a href="https://github.com/jokergoo/simplifyEnrichment/blob/master/vignettes/interactive.Rmd"><code>vignettes/interactive.Rmd</code></a></small>
       <div class="hidden name"><code>interactive.Rmd</code></div>
